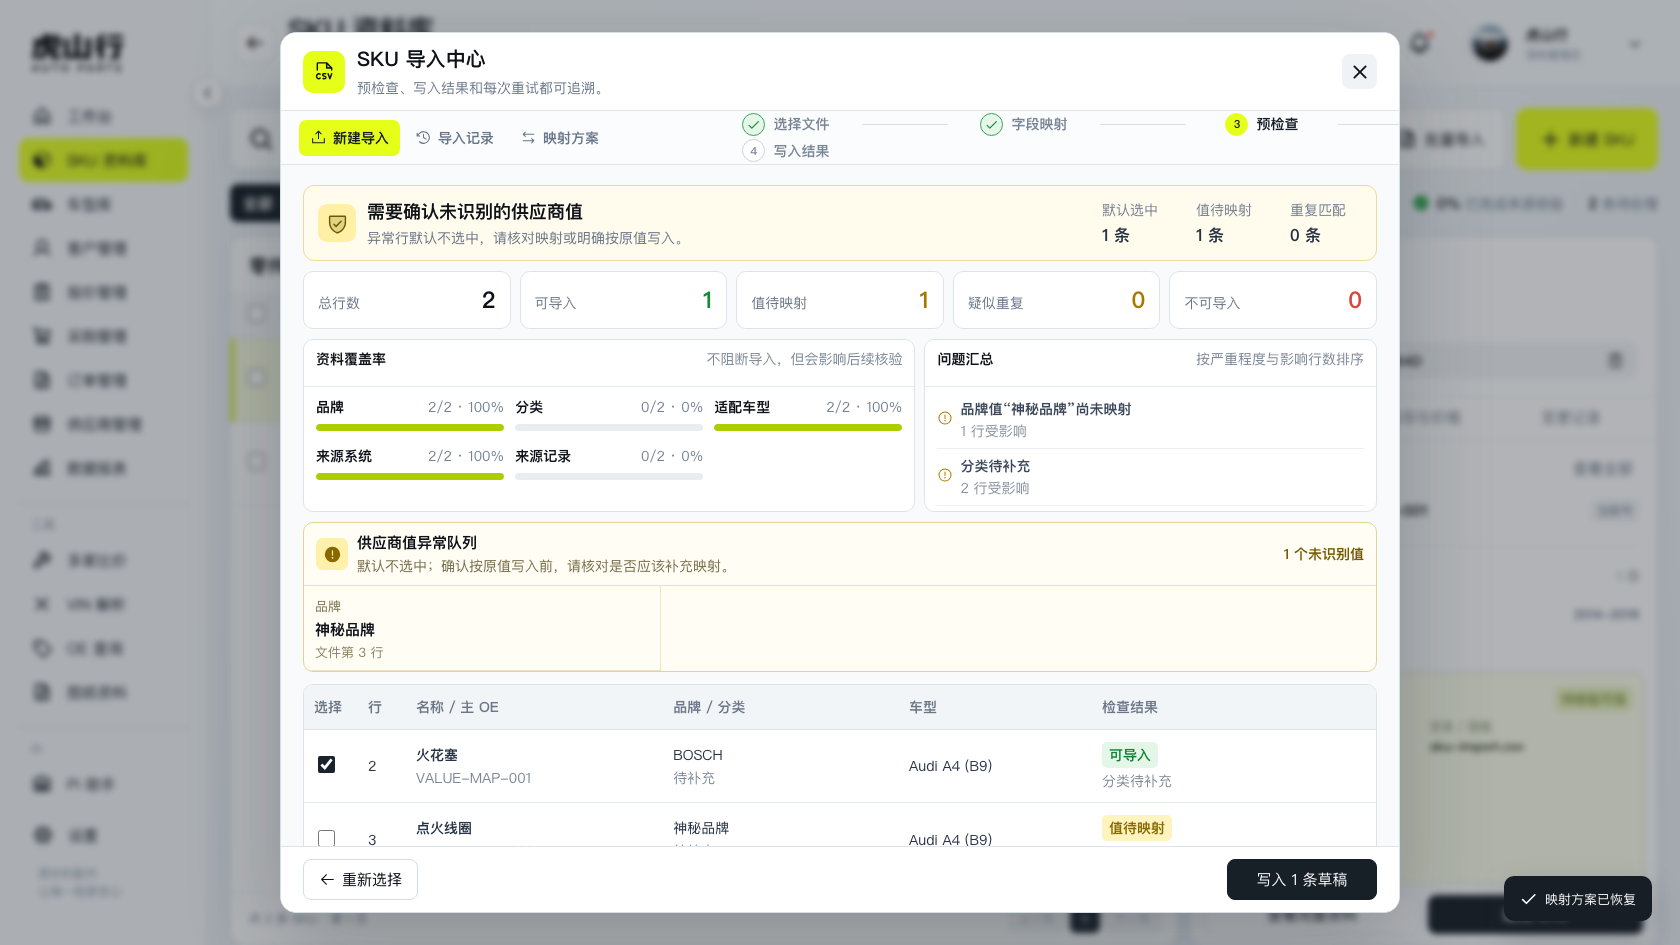
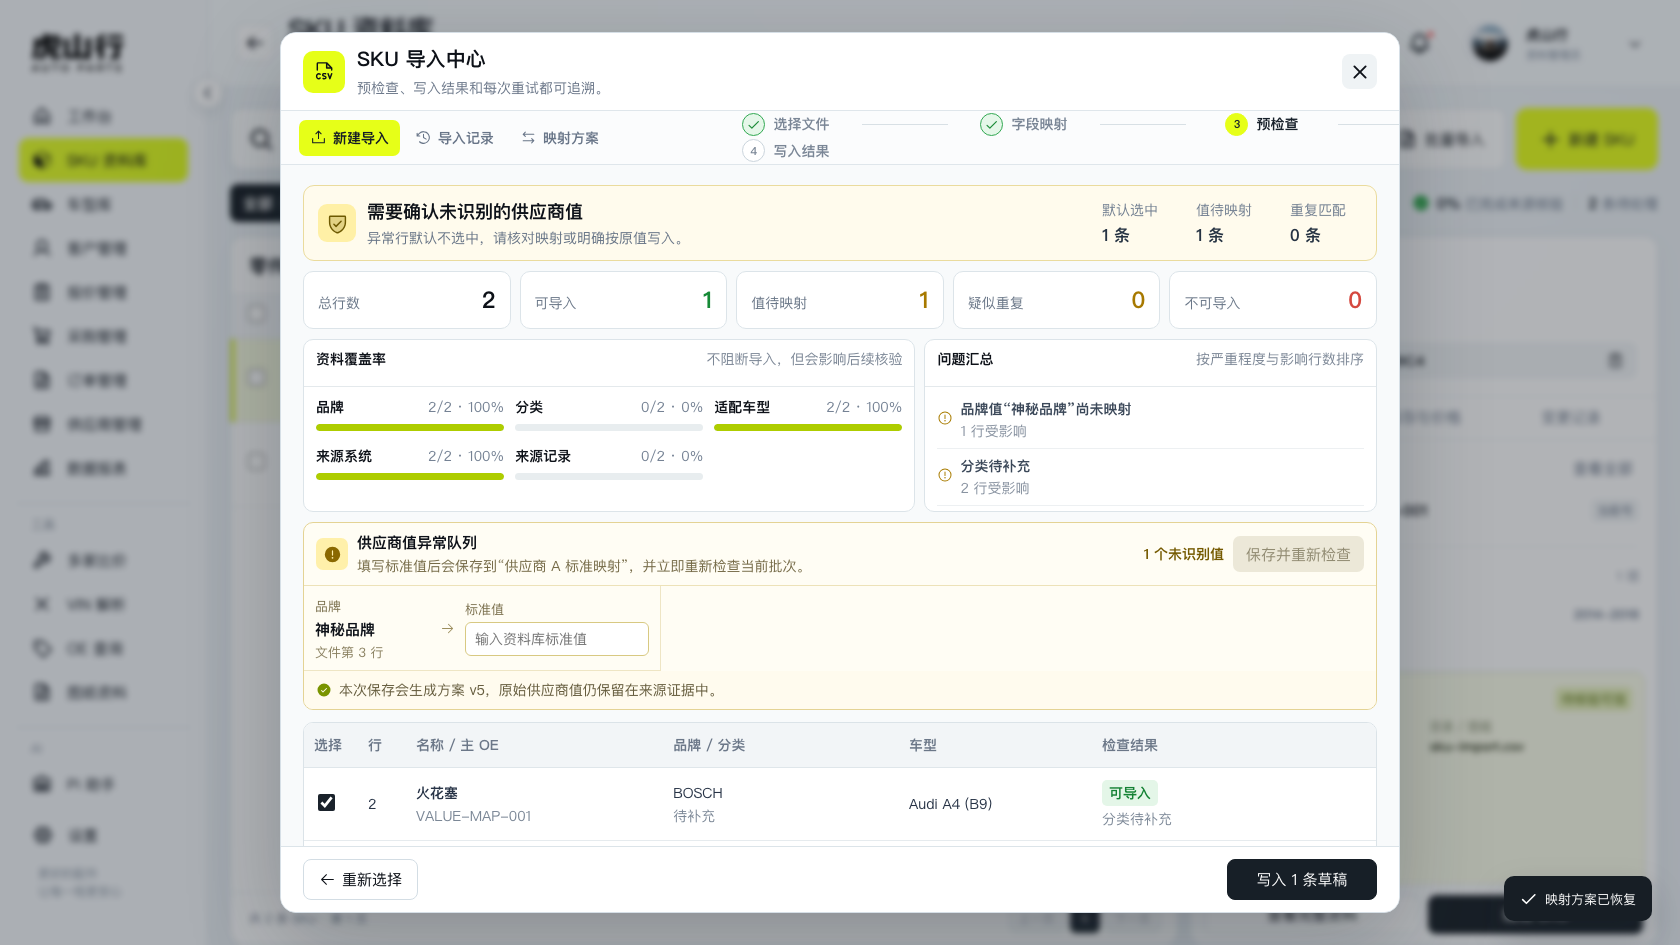
feat: resolve supplier value exceptions inline

diff --git a/apps/web/src/components/SkuImportDialog.jsx b/apps/web/src/components/SkuImportDialog.jsx
@@ -1,6 +1,6 @@
 import { useCallback, useEffect, useRef, useState } from 'react'
 import { ArrowLeft, ArrowRight, ArrowsClockwise, ArrowsLeftRight, CaretDown, Check, CheckCircle, ClipboardText, ClockCounterClockwise, Copy, DownloadSimple, FileCsv, FingerprintSimple, MagnifyingGlass, PencilSimple, Plus, Power, ShieldCheck, SlidersHorizontal, Trash, UploadSimple, WarningCircle, X } from '@phosphor-icons/react'
-import { applyCatalogImportRules, catalogImportFieldDefinitions, cloneCatalogImportMapping, commitCatalogImport, downloadCatalogImportTemplate, getCatalogImport, getCatalogImportMapping, getCatalogImportTemplate, inspectCatalogCsv, listCatalogImportMappings, listCatalogImports, mapCatalogCsvInspection, matchCatalogImportMapping, previewCatalogImport, retryCatalogImport, saveCatalogImportMapping, updateCatalogImportMapping, updateCatalogImportMappingRules, updateCatalogImportValueMappings } from '../services/catalogApi'
+import { applyCatalogImportRules, catalogImportFieldDefinitions, cloneCatalogImportMapping, commitCatalogImport, downloadCatalogImportTemplate, getCatalogImport, getCatalogImportMapping, getCatalogImportTemplate, inspectCatalogCsv, listCatalogImportMappings, listCatalogImports, mapCatalogCsvInspection, matchCatalogImportMapping, previewCatalogImport, resolveCatalogImportValues, retryCatalogImport, saveCatalogImportMapping, updateCatalogImportMapping, updateCatalogImportMappingRules, updateCatalogImportValueMappings } from '../services/catalogApi'
 import '../sku-import.css'
 
 const rowState = {
@@ -26,7 +26,7 @@ const jobState = {
   retrying: { label: '重试中', className: 'duplicate' }, completed: { label: '已完成', className: 'ready' }, partial: { label: '部分失败', className: 'invalid' },
 }
 
-const profileChangeLabel = { create: '创建方案', update_mapping: '更新字段映射', update_rules: '更新导入规则', update_value_mappings: '更新值映射', rename: '重命名', deactivate: '停用方案', reactivate: '恢复方案', clone: '复制方案' }
+const profileChangeLabel = { create: '创建方案', update_mapping: '更新字段映射', update_rules: '更新导入规则', update_value_mappings: '更新值映射', resolve_value_mapping: '批次异常学习', rename: '重命名', deactivate: '停用方案', reactivate: '恢复方案', clone: '复制方案' }
 const transformRuleLabel = { normalizeFullWidth: '全角转半角', trimText: '清理首尾空白', collapseWhitespace: '合并连续空白', uppercaseOe: 'OE 编号转大写' }
 const valueMappingFieldLabel = { brand: '品牌', category: '分类', unit: '单位' }
 
@@ -92,6 +92,7 @@ export function SkuImportDialog({ onClose, onCompleted, onNotify }) {
   const [profileRulesDraft, setProfileRulesDraft] = useState(null)
   const [profileValueMappingsDraft, setProfileValueMappingsDraft] = useState(null)
   const [profileBusy, setProfileBusy] = useState(false)
+  const [valueResolutionDraft, setValueResolutionDraft] = useState({})
 
   useEffect(() => {
     let active = true
@@ -337,6 +338,28 @@ export function SkuImportDialog({ onClose, onCompleted, onNotify }) {
     }
   }
 
+  const resolveValueExceptions = async () => {
+    const resolutions = valueReviewQueue.flatMap((item) => {
+      const target = String(valueResolutionDraft[`${item.field}:${item.value}`] || '').trim()
+      return target ? [{ field: item.field, source: item.value, target }] : []
+    })
+    if (!resolutions.length) return setError('请至少填写一个标准值')
+    setBusy(true)
+    setError('')
+    try {
+      const result = await resolveCatalogImportValues(job, resolutions)
+      setJob(result)
+      setSelected(new Set(result.rows.filter((row) => row.state === 'ready').map((row) => row.id)))
+      setValueResolutionDraft({})
+      onNotify?.(`已学习 ${resolutions.length} 条供应商值，并重新检查当前批次`)
+    } catch (reason) {
+      if (['IMPORT_VERSION_CONFLICT', 'IMPORT_MAPPING_VERSION_CONFLICT'].includes(reason.code)) setJob(await getCatalogImport(job.id).catch(() => job))
+      setError(reason.message || '异常值处理失败')
+    } finally {
+      setBusy(false)
+    }
+  }
+
   const mappingFields = catalogImportFieldDefinitions.map((field) => ({ ...field, ...(templateSpec?.fields?.find((item) => item.key === field.key) || {}) }))
   const mapping = mappingContext?.mapping || {}
   const mappedIndexes = Object.values(mapping).map(Number).filter((index) => index >= 0)
@@ -425,7 +448,7 @@ export function SkuImportDialog({ onClose, onCompleted, onNotify }) {
             {job.preflight ? (() => { const decision = job.preflight.reviewRows && !job.preflight.duplicateMatches ? { title: '需要确认未识别的供应商值', note: '异常行默认不选中，请核对映射或明确按原值写入。', className: 'warning' } : preflightDecision[job.preflight.decision] || preflightDecision.review_required; return <section className={`sku-preflight-decision ${decision.className}`}><span>{job.preflight.decision === 'blocked' ? <WarningCircle size={23} weight="fill" /> : <ShieldCheck size={23} weight="duotone" />}</span><div><h3>{decision.title}</h3><p>{decision.note}</p></div><dl><div><dt>默认选中</dt><dd>{job.preflight.defaultSelectedRows} 条</dd></div><div><dt>值待映射</dt><dd>{job.preflight.reviewRows || 0} 条</dd></div><div><dt>重复匹配</dt><dd>{job.preflight.duplicateMatches} 条</dd></div></dl></section> })() : null}
             <div className="sku-import-summary has-review"><div><span>总行数</span><strong>{job.totalRows}</strong></div><div className="ready"><span>可导入</span><strong>{job.readyRows}</strong></div><div className="review"><span>值待映射</span><strong>{job.reviewRows || 0}</strong></div><div className="duplicate"><span>疑似重复</span><strong>{job.duplicateRows}</strong></div><div className="invalid"><span>不可导入</span><strong>{job.invalidRows}</strong></div></div>
             {job.preflight ? <div className="sku-preflight-grid"><section><header><strong>资料覆盖率</strong><span>不阻断导入，但会影响后续核验</span></header><div className="sku-preflight-coverage">{job.preflight.coverage.map((item) => <div key={item.field}><span><b>{item.label}</b><em>{item.present}/{item.total} · {item.percent}%</em></span><i><b style={{ width: `${item.percent}%` }} /></i></div>)}</div></section><section><header><strong>问题汇总</strong><span>按严重程度与影响行数排序</span></header><div className="sku-preflight-issues">{job.preflight.issueSummary.slice(0, 5).map((issue) => <div className={issue.severity} key={issue.code}><span>{issue.severity === 'error' ? <WarningCircle size={16} weight="fill" /> : <WarningCircle size={16} />}</span><p><strong>{issue.message}</strong><small>{issue.count} 行受影响</small></p></div>)}{!job.preflight.issueSummary.length ? <div className="clear"><span><CheckCircle size={17} weight="fill" /></span><p><strong>未发现字段问题</strong><small>可继续检查逐行结果</small></p></div> : null}</div></section></div> : null}
-            {valueReviewQueue.length ? <section className="sku-value-review-queue"><header><div><span><WarningCircle size={19} weight="fill" /></span><div><strong>供应商值异常队列</strong><small>默认不选中；确认按原值写入前，请核对是否应该补充映射。</small></div></div><b>{valueReviewQueue.length} 个未识别值</b></header><div>{valueReviewQueue.map((item) => <article key={`${item.field}:${item.value}`}><span>{valueMappingFieldLabel[item.field] || item.field}</span><strong>{item.value}</strong><small>文件第 {item.rows.join('、')} 行</small></article>)}</div></section> : null}
+            {valueReviewQueue.length ? <section className="sku-value-review-queue"><header><div><span><WarningCircle size={19} weight="fill" /></span><div><strong>供应商值异常队列</strong><small>填写标准值后会保存到“{job.mappingSnapshot?.name || '当前供应商方案'}”，并立即重新检查当前批次。</small></div></div><div className="sku-value-review-actions"><b>{valueReviewQueue.length} 个未识别值</b><button type="button" disabled={busy || !Object.values(valueResolutionDraft).some((value) => String(value).trim())} onClick={resolveValueExceptions}>{busy ? '正在重新检查…' : '保存并重新检查'}</button></div></header><div>{valueReviewQueue.map((item) => { const key = `${item.field}:${item.value}`; return <article key={key}><div><span>{valueMappingFieldLabel[item.field] || item.field}</span><strong>{item.value}</strong><small>文件第 {item.rows.join('、')} 行</small></div><ArrowRight size={15} /><label><span>标准值</span><input aria-label={`${valueMappingFieldLabel[item.field] || item.field} ${item.value} 的标准值`} value={valueResolutionDraft[key] || ''} onChange={(event) => setValueResolutionDraft((current) => ({ ...current, [key]: event.target.value }))} placeholder="输入资料库标准值" /></label></article> })}</div><footer><CheckCircle size={16} weight="fill" /><span>本次保存会生成方案 v{Number(job.mappingSnapshot?.version || 0) + 1}，原始供应商值仍保留在来源证据中。</span></footer></section> : null}
             <div className="sku-import-table-wrap"><table className="sku-import-table"><thead><tr><th>选择</th><th>行</th><th>名称 / 主 OE</th><th>品牌 / 分类</th><th>车型</th><th>检查结果</th></tr></thead><tbody>{job.rows.map((row) => { const state = rowState[row.state]; const identity = row.payload.identity; const primary = row.payload.identifiers?.find((item) => item.isPrimary); return <tr key={row.id}><td><input aria-label={`选择第 ${row.rowNumber} 行`} type="checkbox" disabled={row.state === 'invalid'} checked={selected.has(row.id)} onChange={() => toggleRow(row)} /></td><td>{row.rowNumber}</td><td><strong>{identity.nameZh || identity.nameEn || '—'}</strong><small>{primary?.rawValue || '缺少主 OE'}</small></td><td><span>{identity.brandLabel || '待补充'}</span><small>{identity.categoryLabel || '待补充'}</small></td><td>{row.payload.fitments?.[0]?.vehicleLabel || '待补充'}</td><td><span className={`import-state ${state.className}`}>{state.label}</span><small>{row.state === 'duplicate' ? duplicateMessage(row) : row.issues.map((issue) => issue.message).join('、') || '字段检查通过'}</small></td></tr> })}</tbody></table></div>
             <div className="sku-import-warning"><WarningCircle size={18} weight="fill" /><span>疑似重复项默认不选中。勾选表示你已确认它应作为独立 SKU 写入，系统不会自动覆盖已有资料。</span></div>
           </> : null}

diff --git a/apps/web/src/sku-import.css b/apps/web/src/sku-import.css
@@ -17,6 +17,7 @@
 .sku-preflight-decision { min-height: 76px; margin-bottom: 10px; padding: 12px 14px; display: grid; grid-template-columns: 38px minmax(240px,1fr) auto; align-items: center; gap: 11px; border: 1px solid #d7e2ca; border-radius: 11px; background: #fbfdec; }.sku-preflight-decision > span { width: 38px; height: 38px; display: grid; place-items: center; border-radius: 9px; color: #355000; background: var(--wb-accent); }.sku-preflight-decision h3 { margin: 0; font-size: 16px; }.sku-preflight-decision p { margin: 4px 0 0; color: #687587; font-size: 12px; }.sku-preflight-decision dl { margin: 0; display: flex; gap: 22px; }.sku-preflight-decision dl div { min-width: 72px; }.sku-preflight-decision dt { color: #738092; font-size: 11px; }.sku-preflight-decision dd { margin: 4px 0 0; color: #263343; font-size: 14px; font-weight: 750; }.sku-preflight-decision.warning { border-color: #eadb9d; background: #fffbed; }.sku-preflight-decision.warning > span { color: #6d5900; background: #fff0a6; }.sku-preflight-decision.blocked { border-color: #efcac7; background: #fff5f3; }.sku-preflight-decision.blocked > span { color: #b13e36; background: #fee4e1; }
 .sku-preflight-grid { margin: 10px 0 0; display: grid; grid-template-columns: 1.15fr .85fr; gap: 9px; }.sku-preflight-grid > section { overflow: hidden; border: 1px solid #dce4e9; border-radius: 10px; background: #fff; }.sku-preflight-grid header { min-height: 47px; padding: 9px 12px; display: flex; align-items: center; justify-content: space-between; gap: 12px; border-bottom: 1px solid #e4e9ec; }.sku-preflight-grid header strong { font-size: 13px; }.sku-preflight-grid header span { color: #7c8796; font-size: 10px; text-align: right; }.sku-preflight-coverage { padding: 10px 12px; display: grid; grid-template-columns: repeat(5,minmax(76px,1fr)); gap: 11px; }.sku-preflight-coverage > div > span { display: flex; align-items: baseline; justify-content: space-between; gap: 6px; }.sku-preflight-coverage b { font-size: 11px; }.sku-preflight-coverage em { color: #758294; font-size: 9px; font-style: normal; }.sku-preflight-coverage > div > i { height: 5px; margin-top: 7px; display: block; overflow: hidden; border-radius: 4px; background: #e8edef; }.sku-preflight-coverage > div > i b { height: 100%; display: block; border-radius: inherit; background: #aecd00; }.sku-preflight-issues { min-height: 61px; padding: 5px 12px; display: grid; grid-template-columns: repeat(2,minmax(0,1fr)); column-gap: 12px; }.sku-preflight-issues > div { min-width: 0; padding: 7px 0; display: flex; align-items: center; gap: 7px; border-bottom: 1px solid #edf0f2; }.sku-preflight-issues > div > span { color: #a97c00; }.sku-preflight-issues > div.error > span { color: #c7473e; }.sku-preflight-issues > div.clear > span { color: #1d9441; }.sku-preflight-issues p { min-width: 0; margin: 0; }.sku-preflight-issues strong, .sku-preflight-issues small { display: block; overflow: hidden; text-overflow: ellipsis; white-space: nowrap; }.sku-preflight-issues strong { color: #3b4859; font-size: 11px; }.sku-preflight-issues small { margin-top: 2px; color: #8993a1; font-size: 9px; }
 .sku-value-review-queue { margin: 10px 0; overflow: hidden; border: 1px solid #e4d394; border-radius: 10px; background: #fffdf4; }.sku-value-review-queue > header { min-height: 54px; padding: 9px 12px; display: flex; align-items: center; justify-content: space-between; gap: 14px; border-bottom: 1px solid #ede2b8; }.sku-value-review-queue > header > div { display: flex; align-items: center; gap: 9px; }.sku-value-review-queue > header > div > span { width: 32px; height: 32px; display: grid; flex: none; place-items: center; border-radius: 7px; color: #8a6800; background: #fff0aa; }.sku-value-review-queue strong, .sku-value-review-queue small { display: block; }.sku-value-review-queue header strong { font-size: 15px; }.sku-value-review-queue header small { margin-top: 3px; color: #766b48; font-size: 14px; }.sku-value-review-queue header > b { color: #755a00; font-size: 14px; }.sku-value-review-queue > div { display: grid; grid-template-columns: repeat(3,minmax(0,1fr)); }.sku-value-review-queue article { min-height: 64px; padding: 9px 11px; border-right: 1px solid #eee5c4; border-bottom: 1px solid #eee5c4; }.sku-value-review-queue article span { color: #7b704e; font-size: 13px; }.sku-value-review-queue article strong { margin-top: 3px; overflow: hidden; font-size: 15px; text-overflow: ellipsis; white-space: nowrap; }.sku-value-review-queue article small { margin-top: 3px; color: #8a8060; font-size: 13px; }
+.sku-value-review-actions { flex: none; }.sku-value-review-actions b { color: #755a00; font-size: 14px; white-space: nowrap; }.sku-value-review-actions button { min-height: 36px; padding: 0 13px; border: 0; border-radius: 7px; color: #111600; background: #dfff32; font-size: 14px; font-weight: 750; cursor: pointer; }.sku-value-review-actions button:hover:not(:disabled) { background: #d5f42c; }.sku-value-review-actions button:disabled { color: #918b72; background: #ece8d8; cursor: not-allowed; }.sku-value-review-queue article { display: grid; grid-template-columns: minmax(90px,.78fr) 18px minmax(150px,1.22fr); align-items: center; gap: 7px; }.sku-value-review-queue article > svg { color: #9c8e5e; }.sku-value-review-queue article label span { display: block; margin-bottom: 4px; }.sku-value-review-queue article input { width: 100%; height: 34px; padding: 0 9px; border: 1px solid #d8c982; border-radius: 6px; outline: none; color: #111827; background: #fff; font-size: 14px; }.sku-value-review-queue article input:focus { border-color: #a6bd18; box-shadow: 0 0 0 3px rgba(201,231,38,.18); }.sku-value-review-queue > footer { min-height: 38px; padding: 7px 12px; display: flex; align-items: center; gap: 7px; color: #655c3d; background: #fffbee; font-size: 14px; }.sku-value-review-queue > footer svg { flex: none; color: #799400; }
 .sku-import-table-wrap { max-height: 430px; margin-top: 12px; overflow: auto; border: 1px solid #dbe3e8; border-radius: 10px; background: #fff; }.sku-import-table { width: 100%; border-collapse: collapse; table-layout: fixed; }.sku-import-table th { position: sticky; top: 0; z-index: 1; height: 39px; padding: 0 10px; border-bottom: 1px solid #dfe6ea; color: #6b7788; background: #f2f5f7; font-size: 12px; text-align: left; }.sku-import-table th:nth-child(1) { width: 54px; }.sku-import-table th:nth-child(2) { width: 48px; }.sku-import-table th:nth-child(3) { width: 24%; }.sku-import-table th:nth-child(4) { width: 22%; }.sku-import-table th:nth-child(5) { width: 18%; }.sku-import-table td { padding: 10px; border-bottom: 1px solid #e6ebee; color: #273346; font-size: 13px; vertical-align: middle; }.sku-import-table td strong, .sku-import-table td small, .sku-import-table td span { display: block; }.sku-import-table td small { margin-top: 4px; color: #7b8796; font-size: 11px; line-height: 1.35; }.sku-import-table input { width: 17px; height: 17px; accent-color: #1a222b; }
 .import-state { display: inline-flex !important; width: max-content; padding: 3px 7px; border-radius: 5px; font-size: 11px; font-weight: 750; }.import-state.ready, .import-state.imported { color: #138133; background: #e4f6e8; }.import-state.review, .import-state.duplicate { color: #876900; background: #fff4bf; }.import-state.invalid { color: #b93b35; background: #fee9e6; }.import-state.skipped { color: #677383; background: #e9eef1; }
 .sku-import-warning, .sku-import-error { margin-top: 12px; padding: 11px 13px; display: flex; align-items: flex-start; gap: 8px; border-radius: 8px; font-size: 12px; line-height: 1.5; }.sku-import-warning { color: #65561f; background: #fff8d9; }.sku-import-error { color: #9f302c; background: #feecea; }.sku-import-warning svg, .sku-import-error svg { flex: none; }

diff --git a/apps/web/tests/dashboard.spec.js b/apps/web/tests/dashboard.spec.js
@@ -307,8 +307,14 @@ test('manages supplier mapping profiles without deleting audit history', async (
   await expect(valueDialog.getByLabel('选择第 3 行')).not.toBeChecked()
   await expect(valueDialog.locator('.import-state.review')).toHaveText('值待映射')
   await page.screenshot({ path: 'qa-artifacts/implementation-sku-import-value-review-1680.png', fullPage: false })
-  await valueDialog.getByLabel('选择第 3 行').check()
+  await valueDialog.getByLabel('品牌 神秘品牌 的标准值').fill('MYSTERY')
+  await valueDialog.getByRole('button', { name: '保存并重新检查' }).click()
+  await expect(valueDialog.getByText('供应商值异常队列')).not.toBeVisible()
+  await expect(valueDialog.getByText('MYSTERY', { exact: true })).toBeVisible()
+  await expect(valueDialog.getByLabel('选择第 3 行')).toBeChecked()
+  await expect(valueDialog.locator('.import-state.review')).toHaveCount(0)
   await expect(valueDialog.getByRole('button', { name: '写入 2 条草稿' })).toBeVisible()
+  await page.screenshot({ path: 'qa-artifacts/implementation-sku-import-value-resolved-1680.png', fullPage: false })
   await valueDialog.getByRole('button', { name: '关闭' }).first().click()
 })
 

diff --git a/apps/web/src/services/catalogApi.js b/apps/web/src/services/catalogApi.js
@@ -355,6 +355,17 @@ export function commitCatalogImport(jobId, expectedVersion, rowIds) {
   return request(`/api/v2/catalog/imports/${jobId}/commit`, { method: 'POST', body: JSON.stringify({ expectedVersion, rowIds }) })
 }
 
+export function resolveCatalogImportValues(job, resolutions) {
+  return request(`/api/v2/catalog/imports/${job.id}/resolve-values`, {
+    method: 'POST',
+    body: JSON.stringify({
+      expectedVersion: job.version,
+      expectedProfileVersion: job.mappingSnapshot?.version,
+      resolutions,
+    }),
+  })
+}
+
 export function listCatalogImports({ state = '', page = 1, pageSize = 20 } = {}) {
   const params = new URLSearchParams({ page: String(page), pageSize: String(pageSize) })
   if (state) params.set('state', state)

diff --git a/docs/SKU-V2-DATA-MODEL.md b/docs/SKU-V2-DATA-MODEL.md
@@ -101,7 +101,7 @@ CatalogSku
 
 ### `catalog_import_mapping_profile`
 
-供应商字段映射方案保存方案名称、文件名特征、稳定的表头签名、原始字段快照、标准字段映射、默认值 `default_values`、转换规则 `transform_rules`、品牌/分类/单位值映射 `value_mappings`、使用次数、启用状态和版本。默认值仅允许品牌、分类、单位和来源系统；转换规则覆盖全角转半角、首尾空白、连续空白和主 OE 大写。完全一致的表头可以自动复用；疑似同一供应商但表头增删时只提供差异提示和可匹配字段，不允许无提示覆盖。`catalog_import_mapping_profile_change` 以 `update_rules`、`update_value_mappings` 记录规则版本，`catalog_import_job` 关联方案并冻结包含映射与规则的 `mapping_snapshot`，保证后续方案变更不会改写历史导入依据。无法命中已有值映射的行计入 `review_rows` 并以 `review` 状态保存，操作员必须显式选择才能写入。标准化仅作用于规范字段，供应商原值继续保存在 `_sourceRow`。
+供应商字段映射方案保存方案名称、文件名特征、稳定的表头签名、原始字段快照、标准字段映射、默认值 `default_values`、转换规则 `transform_rules`、品牌/分类/单位值映射 `value_mappings`、使用次数、启用状态和版本。默认值仅允许品牌、分类、单位和来源系统；转换规则覆盖全角转半角、首尾空白、连续空白和主 OE 大写。完全一致的表头可以自动复用；疑似同一供应商但表头增删时只提供差异提示和可匹配字段，不允许无提示覆盖。`catalog_import_mapping_profile_change` 以 `update_rules`、`update_value_mappings` 和 `resolve_value_mapping` 记录规则版本，`catalog_import_job` 关联方案并冻结包含映射与规则的 `mapping_snapshot`，保证后续方案变更不会改写历史导入依据。无法命中已有值映射的行计入 `review_rows` 并以 `review` 状态保存；就地处理后使用新的方案版本重算当前批次。`catalog_import_value_resolution` 追加保存批次、方案、字段、来源值、标准值、方案版本、处理人和时间。标准化仅作用于规范字段，供应商原值继续保存在 `_sourceRow`。
 
 `catalog_import_mapping_profile_change` 以追加记录保存创建、字段更新、重命名、停用、恢复和复制事件。方案不提供物理删除；停用方案不再参与自动匹配，但历史批次、方案快照和变更记录仍可读取。
 
